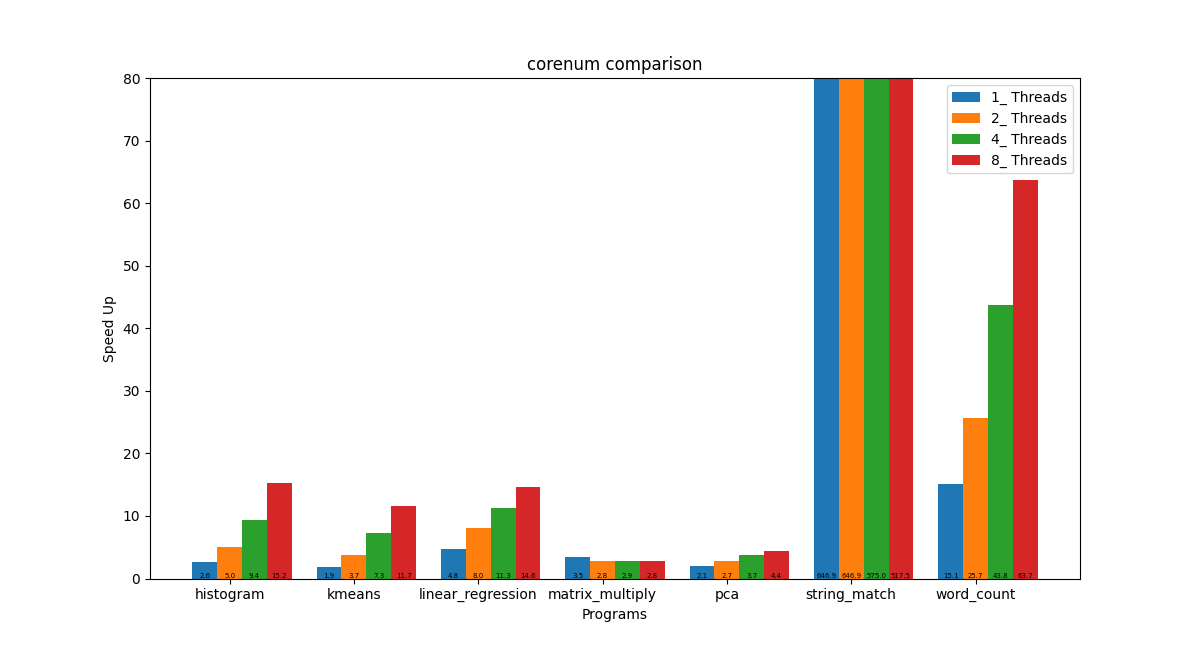
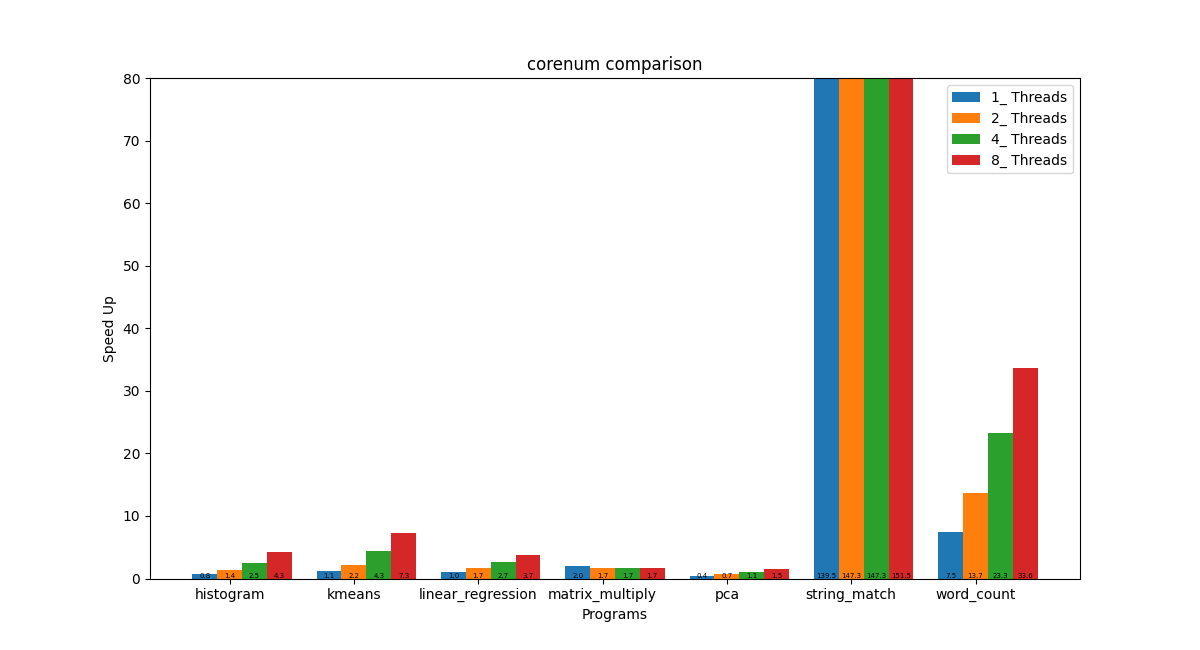
multicore: change phonex++ dataset param and update demo result

Changed region(s): [[0.2775, 0.7385, 0.6783, 0.8923], [0.7708, 0.2769, 0.8633, 0.8308], [0.1542, 0.7385, 0.2467, 0.8923]]

diff --git a/task3/multicore/phoenix/benchmark.py b/task3/multicore/phoenix/benchmark.py
@@ -61,7 +61,7 @@ def plot(programs, mode):
     basefiles = []
     base_lists = []
 
-    pattern = 'result_t*_d1' if mode == "threads" else 'result_t8_d*'
+    pattern = 'result_t*_d2' if mode == "threads" else 'result_t8_d*'
 
     for f_name in os.listdir('./'):
         if fnmatch.fnmatch(f_name, pattern):
@@ -140,7 +140,7 @@ def main():
     for threads in [1,2,4,8]:
         os.environ["MR_NUMTHREADS"] = str(threads)
         print(f'Threads Num: {threads}')
-        benchmark(programs, threads, 1, False)  #fix dataset to the large one
+        benchmark(programs, threads, 2, False)  #fix dataset to the large one
 
     for dataset in range(3):
         benchmark(programs, 8, dataset, False)  #fix threads to 8
